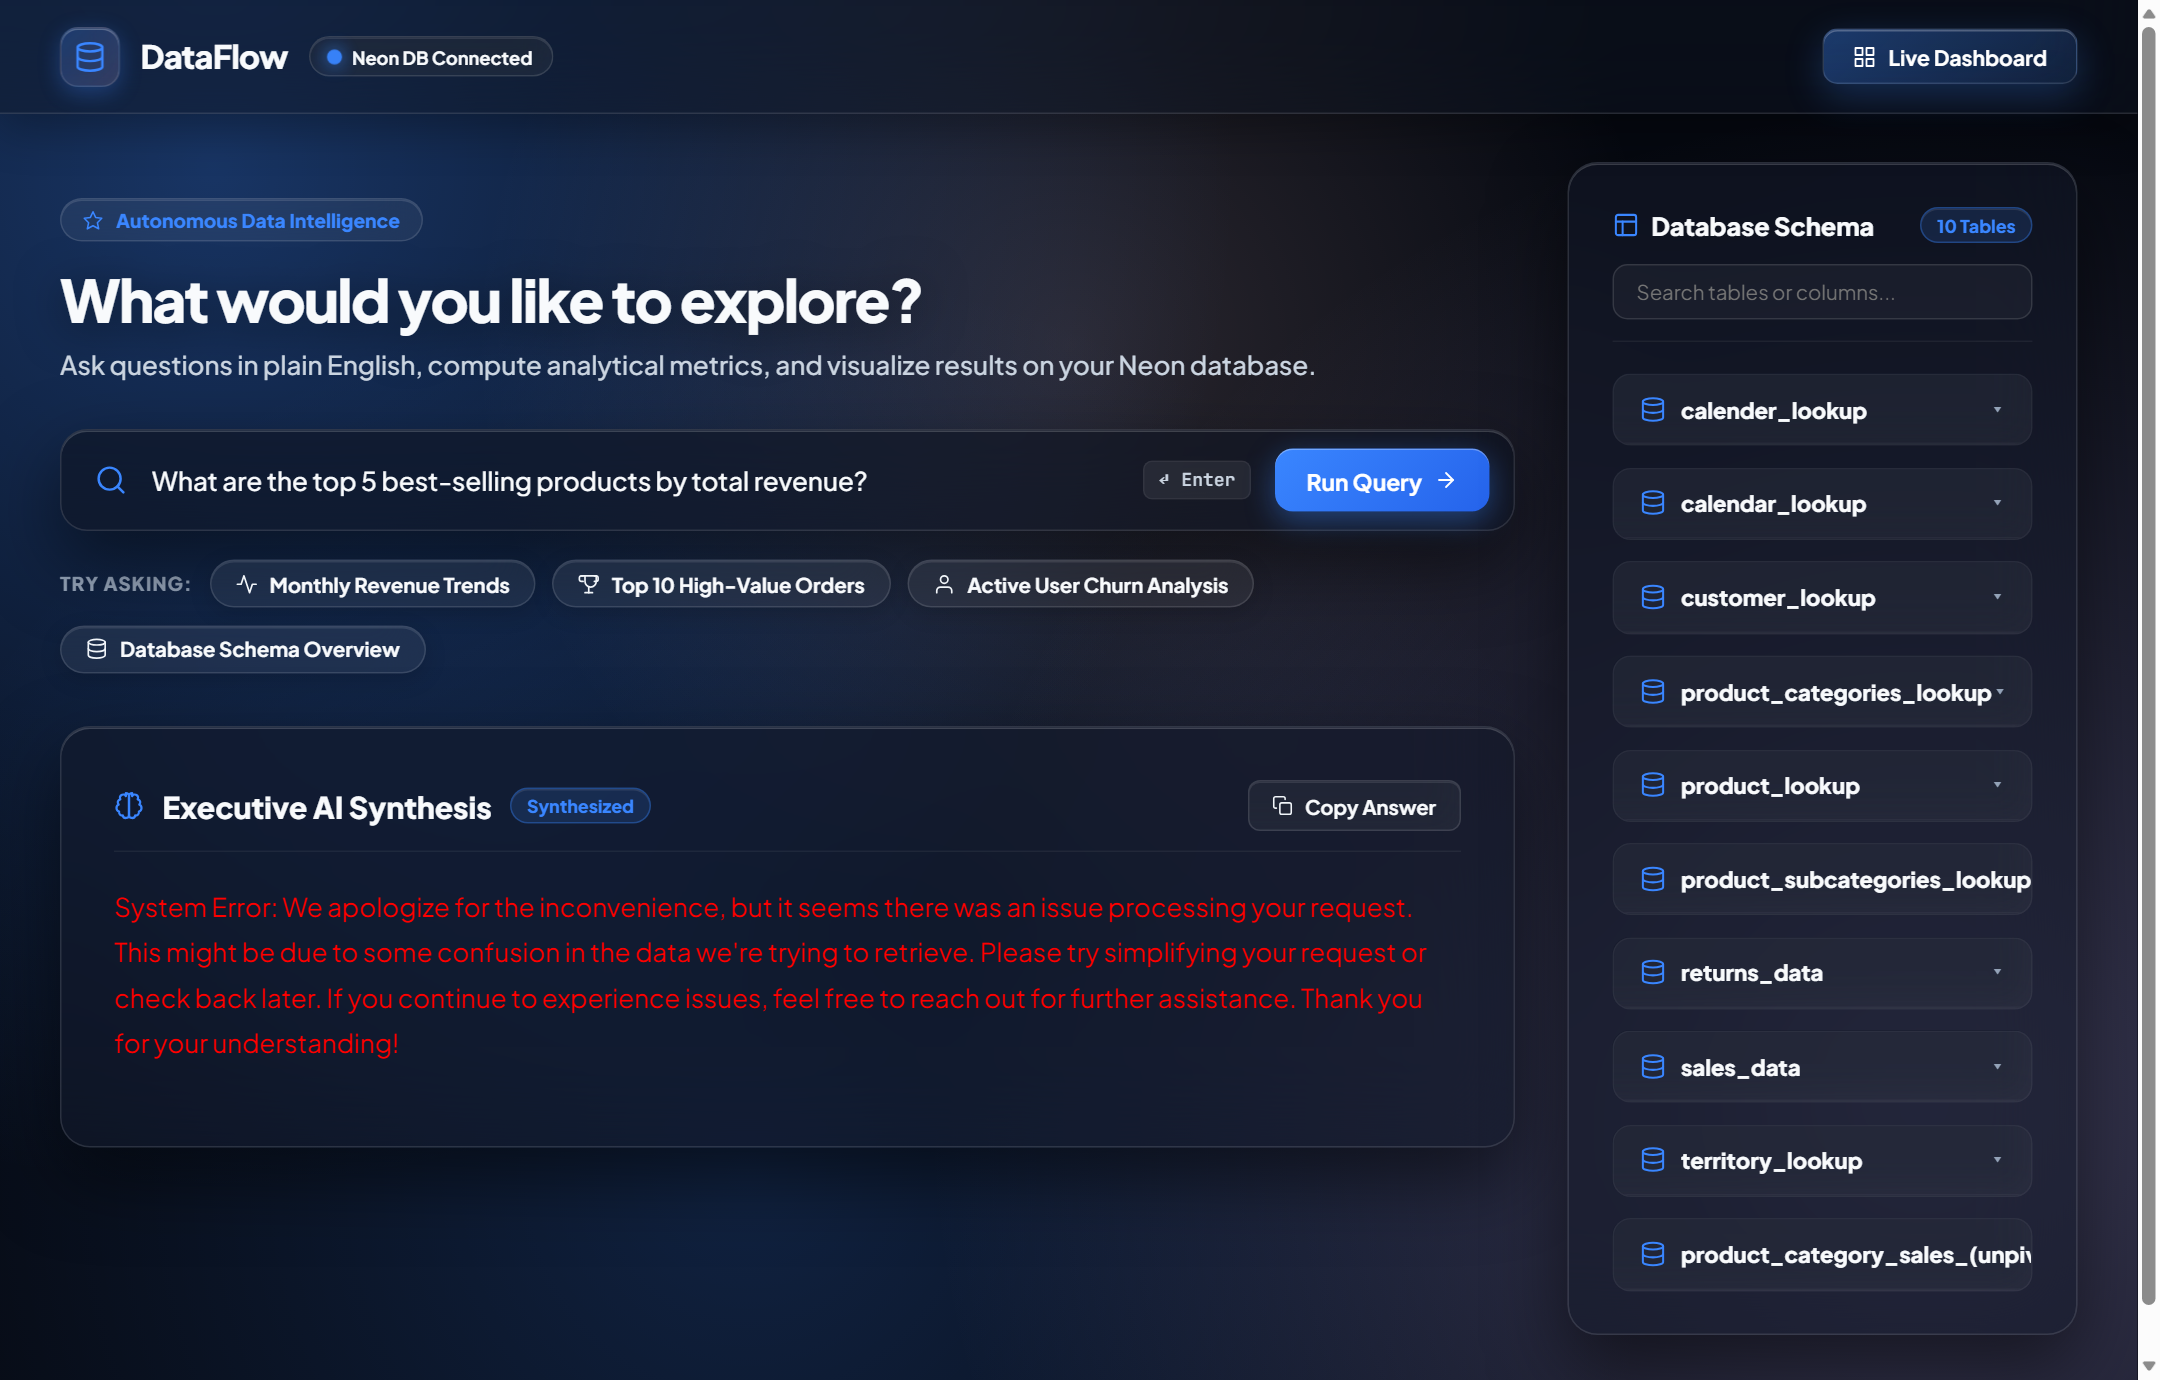
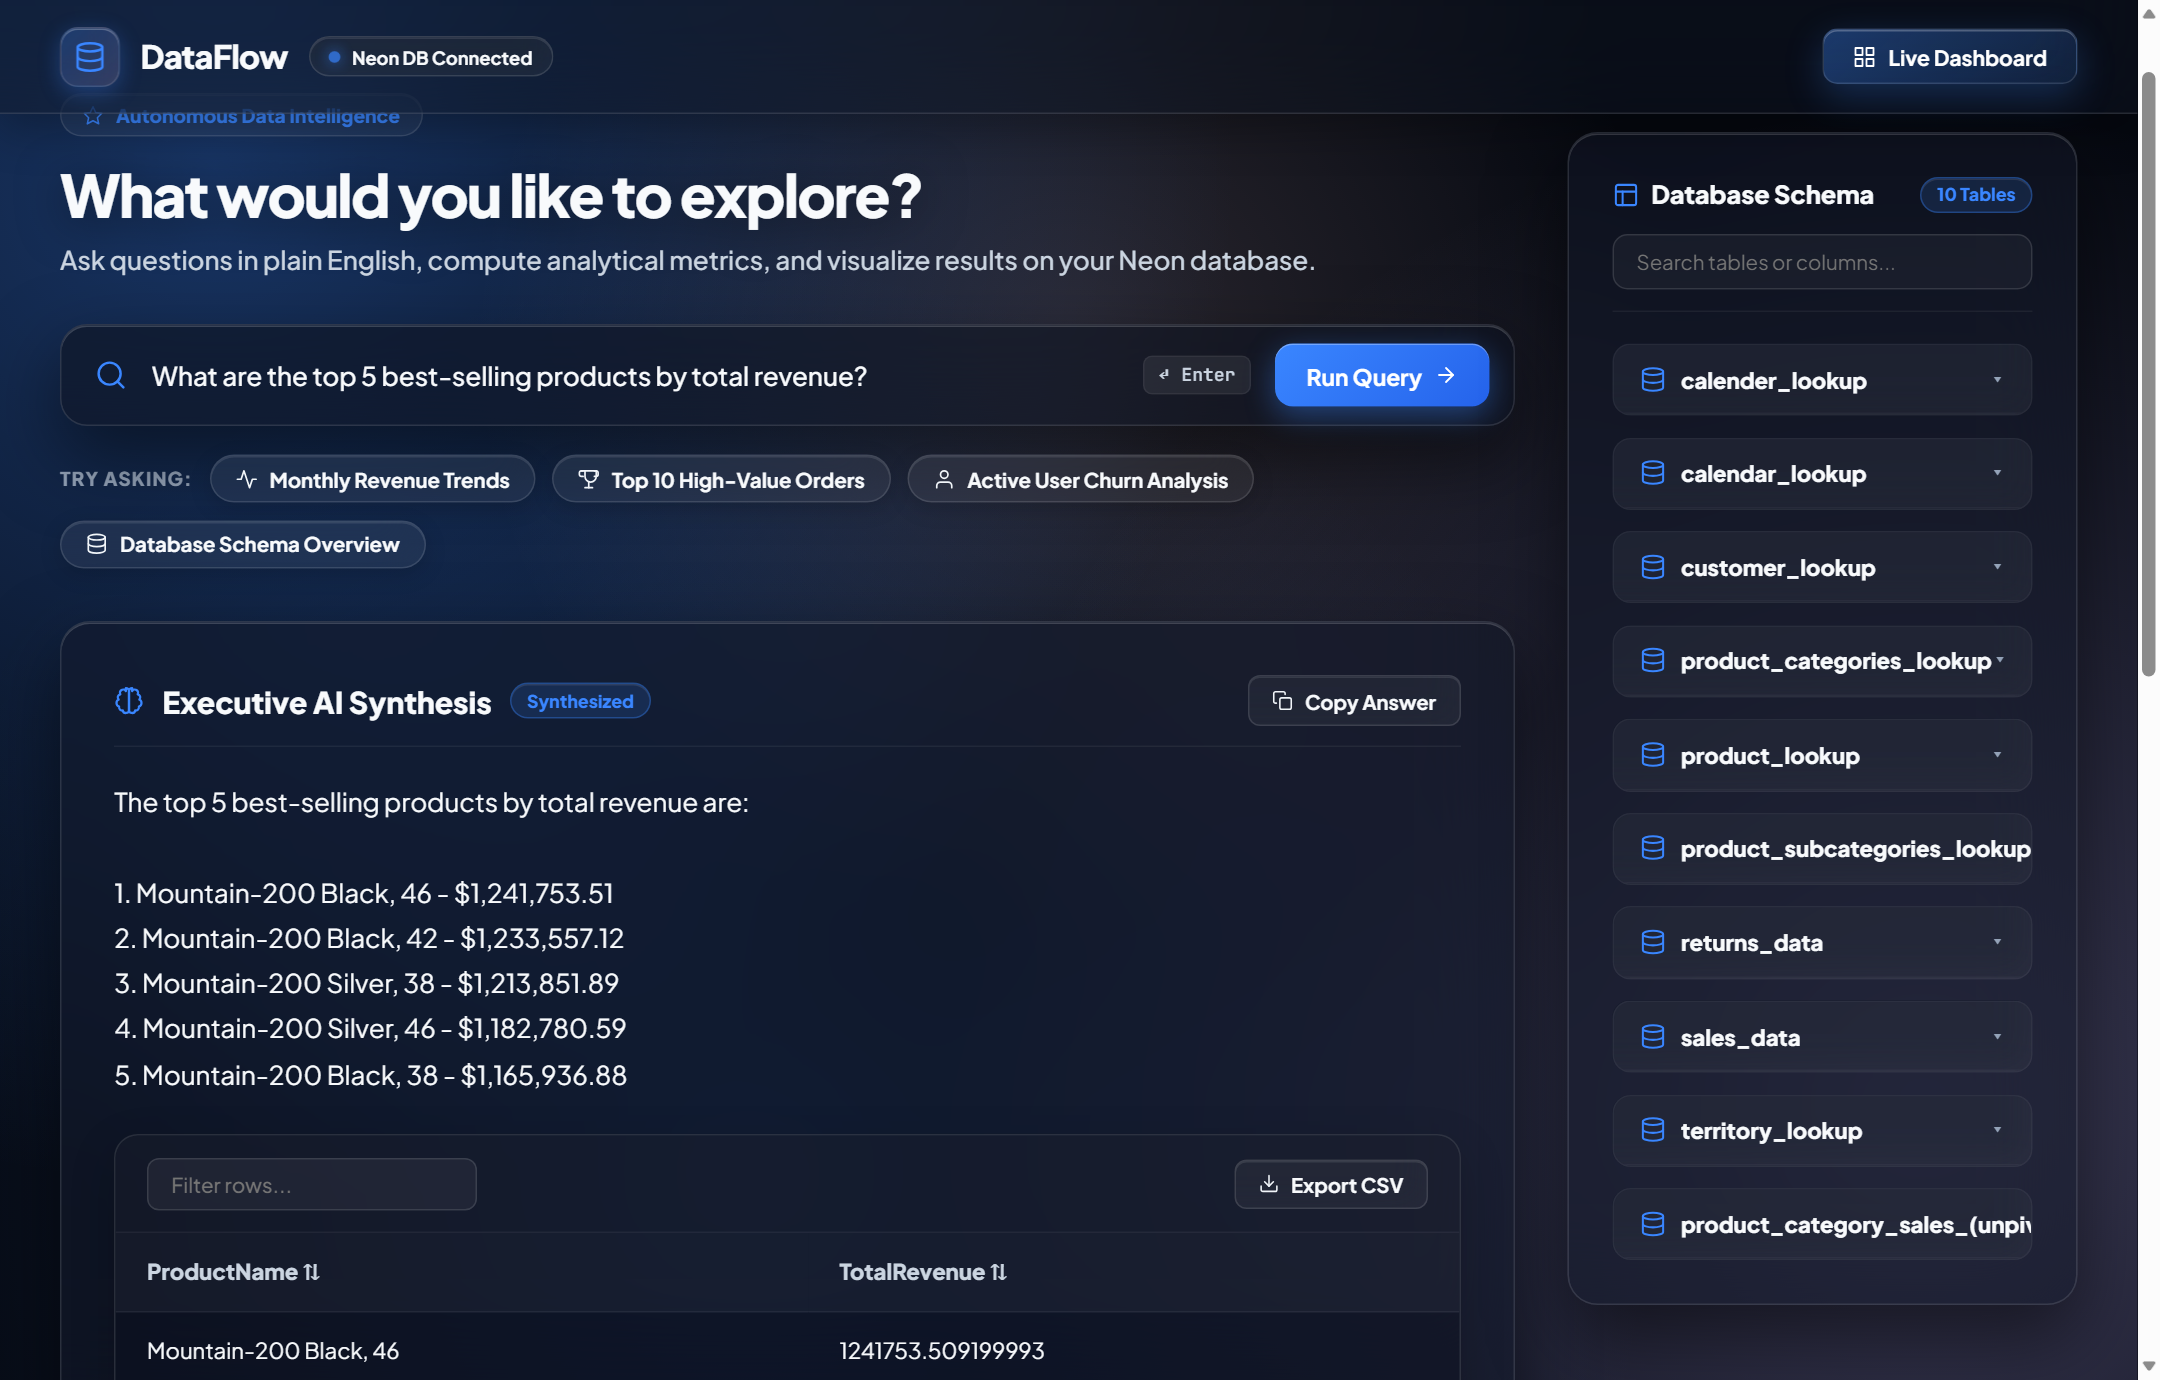
new

diff --git a/pro/sql_agent.py b/pro/sql_agent.py
@@ -85,13 +85,14 @@ write a SQL query that answers the user's question.
 Rules:
 - Only return the SQL query, nothing else
 - Use double quotes for column names with uppercase letters
-- Do NOT use LIMIT unless the user explicitly asks for a specific number of results. Retrieve all matching data.
+- When the user explicitly asks for a specific number of results (e.g. 'top 5', 'top 10'), use LIMIT N. Otherwise, do NOT use LIMIT and retrieve all matching data.
 - For date and timestamp operations, strictly follow PostgreSQL syntax:
   * Use standard ISO format 'YYYY-MM-DD' for date literals (e.g. '2024-01-01')
   * Use DATE_TRUNC('month', column) or EXTRACT(YEAR FROM column) / EXTRACT(MONTH FROM column)
   * Use TO_CHAR(column, 'YYYY-MM-DD') for string formatting
   * Do NOT use SQLite-specific functions like strftime()
   * Use proper type casts where needed (e.g. column::date)
+  * Type cast hint: "CustomerKey" in customer_lookup is TEXT while in sales_data it is BIGINT. When joining on CustomerKey, always cast: sd."CustomerKey"::text = cl."CustomerKey" (or CAST(sd."CustomerKey" AS TEXT) = cl."CustomerKey")
 
 Schema:
 {state["schema_info"]}
